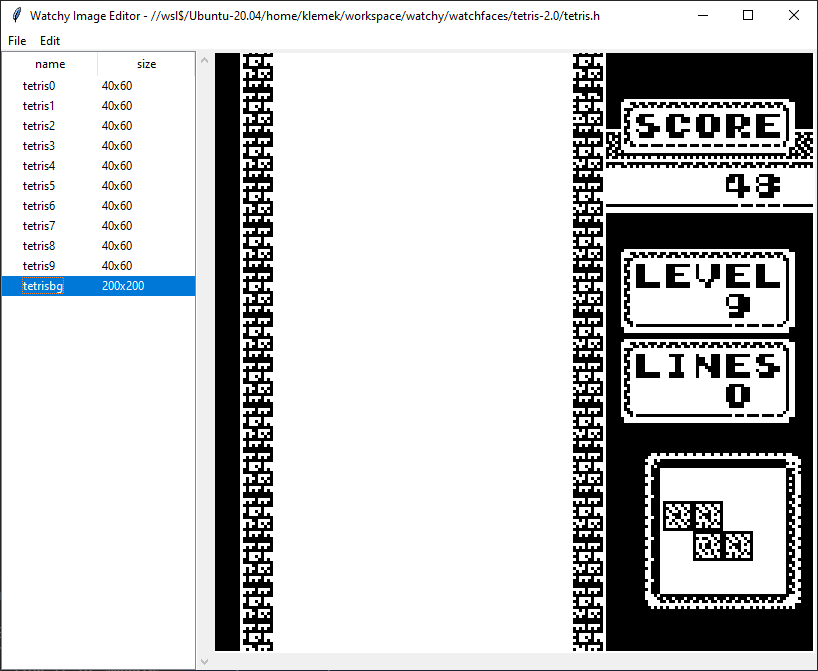
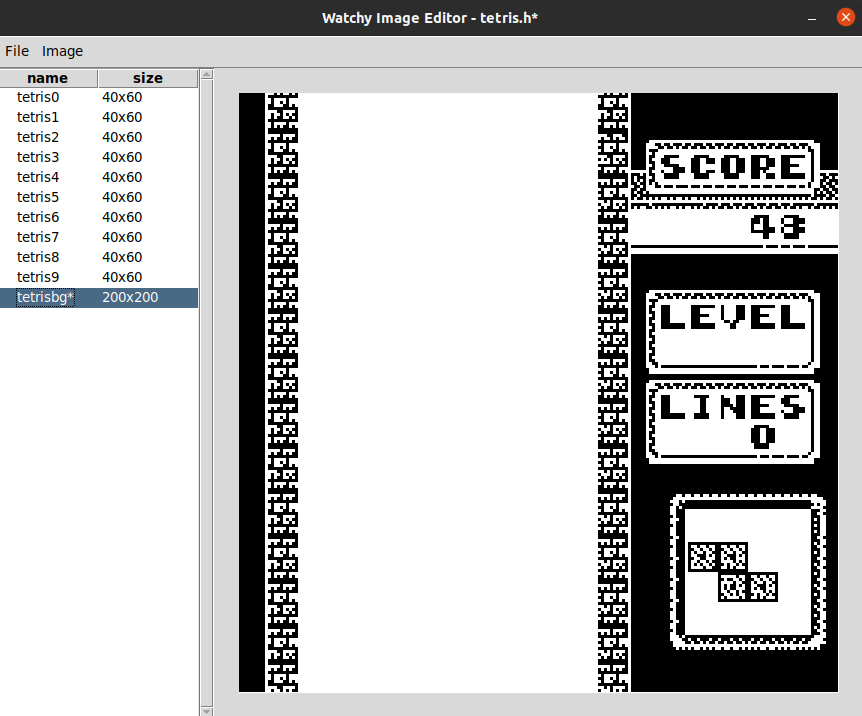
modified indicator

diff --git a/watchy-image-editor/main.py b/watchy-image-editor/main.py
@@ -3,6 +3,7 @@ from tkinter import ttk
 from tkinter import filedialog
 from typing import List, Optional, Tuple
 import re
+import os.path
 from math import sqrt, log2, ceil
 
 
@@ -14,7 +15,12 @@ class Bitmap:
     FILE_TYPES = [("Bitmap Image", "*.bmp"), ("All Files", "*.*")]
 
     @classmethod
-    def get_bmp_data(cls, width: int, data: bytes) -> bytes:
+    def write_bmp(cls, path: str, width: int, data: bytes) -> None:
+        with open(path, mode="wb") as f:
+            f.write(cls.__get_bmp_data(width, data))
+
+    @classmethod
+    def __get_bmp_data(cls, width: int, data: bytes) -> bytes:
         height = len(data) // (width * 3)
         return cls.__get_header(width, height, len(data)) + cls.__format_data(
             width, height, data
@@ -66,13 +72,24 @@ class Bitmap:
                 output_data += bytes([0]) * (4 - line_padding)
         return output_data
 
+    @classmethod
+    def read_bmp(cls, path: str) -> Tuple[int, int, bytes]:
+        with open(path, mode="rb") as f:
+            raw_data = f.read()
+            # TODO
+
 
 class Image:
-    def __init__(self, name: str, width: int, height: int) -> None:
+    def __init__(self, name: str, width: int, height: int, empty: bool = False) -> None:
         self.name = name
         self.width = width
         self.height = height
-        self.data = []
+        self.modified = False
+        if empty:
+            self.data = [0] * (width * height) // 8
+            self.modified = True
+        else:
+            self.data = []
 
     def finalize(self) -> None:
         if self.width == 0:
@@ -101,10 +118,12 @@ class Image:
         position = self.get_position(x, y)
         chunk_id = position // 8
         byte = pow(2, 7 - position % 8)
-        if v:
-            self.data[chunk_id] |= 1 << (7 - position % 8)
-        else:
-            self.data[chunk_id] &= ~(1 << (7 - position % 8))
+        if v != self.get_pixel(x, y):
+            if v:
+                self.data[chunk_id] |= 1 << (7 - position % 8)
+            else:
+                self.data[chunk_id] &= ~(1 << (7 - position % 8))
+            self.modified = True
 
     def get_color_bytes(self) -> bytes:
         output = bytes()
@@ -117,8 +136,11 @@ class Image:
         return output
 
     def export_bmp(self, path: str) -> None:
-        with open(path, mode="wb") as f:
-            f.write(Bitmap.get_bmp_data(self.width, self.get_color_bytes()))
+        Bitmap.write_bmp(path, self.width, self.get_color_bytes())
+
+    def import_bmp(self, path: str) -> None:
+        self.width, self.height, data = Bitmap.read_bmp(path)
+        # TODO
 
 
 class File:
@@ -129,9 +151,19 @@ class File:
         if path is None:
             self.images = []
         else:
-            self.images = self.read_file()
+            self.images = self.__read_file()
 
-    def read_file(self) -> List[Image]:
+    @property
+    def filename(self) -> str:
+        if self.path is None:
+            return None
+        return os.path.basename(self.path)
+
+    @property
+    def modified(self) -> bool:
+        return any(image.modified for image in self.images)
+
+    def __read_file(self) -> List[Image]:
         images = []
 
         current_image = None
@@ -296,14 +328,18 @@ class App(ttk.Frame):
         canvas.place(in_=view, anchor="c", relx=0.5, rely=0.5)
         canvas.bind("<Button-1>", self.click_canvas_b1)
         canvas.bind("<B1-Motion>", self.click_canvas_b1)
+        canvas.bind("<ButtonRelease-1>", self.update)
         canvas.bind("<Button-3>", self.click_canvas_b3)
         canvas.bind("<B3-Motion>", self.click_canvas_b3)
+        canvas.bind("<ButtonRelease-3>", self.update)
 
         return canvas
 
-    def update(self, *args) -> None:
+    def update(self, *args, force: bool = False) -> None:
         self.update_menus()
         self.update_canvas()
+        self.update_explorer(force)
+        self.update_title()
 
     def update_menus(self) -> None:
         for file_index in [2, 3, 4]:
@@ -350,6 +386,41 @@ class App(ttk.Frame):
                             outline="",
                         )
 
+    def update_explorer(self, force: bool = False) -> None:
+        if force:
+            ids = self.explorer.get_children()
+            if len(ids) > 0:
+                self.explorer.delete(*ids)
+
+        if self.current_file is not None:
+            for i, image in enumerate(self.current_file.images):
+                if self.explorer.exists(str(i)):
+                    self.explorer.item(
+                        str(i),
+                        text=f"{image.name}{'*' if image.modified else ''}",
+                        values=[f"{image.width}x{image.height}"],
+                    )
+                else:
+                    self.explorer.insert(
+                        "",
+                        "end",
+                        iid=str(i),
+                        text=f"{image.name}{'*' if image.modified else ''}",
+                        values=[f"{image.width}x{image.height}"],
+                    )
+
+    def update_title(self) -> None:
+        title = "Watchy Image Editor"
+        if self.current_file is not None:
+            title += "- "
+            if self.current_file.path is None:
+                title += "New file"
+            else:
+                title += self.current_file.filename
+            if self.current_file.modified:
+                title += "*"
+        self.parent.title(title)
+
     def click_canvas_b1(self, event):
         self.click_canvas(True, event)
 
@@ -378,27 +449,11 @@ class App(ttk.Frame):
         self.open_file(path)
 
     def open_file(self, path: Optional[str]) -> None:
-        ids = self.explorer.get_children()
-        if len(ids) > 0:
-            self.explorer.delete(*ids)
-
         if path is None:
-            self.parent.title(f"Watchy Image Editor")
             self.current_file = None
         else:
-            self.parent.title(
-                f"Watchy Image Editor - {'New file' if path == '' else path}"
-            )
             self.current_file = File(path if path != "" else None)
-            for i, image in enumerate(self.current_file.images):
-                self.explorer.insert(
-                    "",
-                    "end",
-                    iid=str(i),
-                    text=image.name,
-                    values=[f"{image.width}x{image.height}"],
-                )
-        self.update()
+        self.update(True)
 
     def add_image(self) -> None:
         pass  # TODO
@@ -428,6 +483,7 @@ class App(ttk.Frame):
         )
         if path is not None:
             self.current_image.export_bmp(path)
+
 
 if __name__ == "__main__":
     app = App(Tk())
